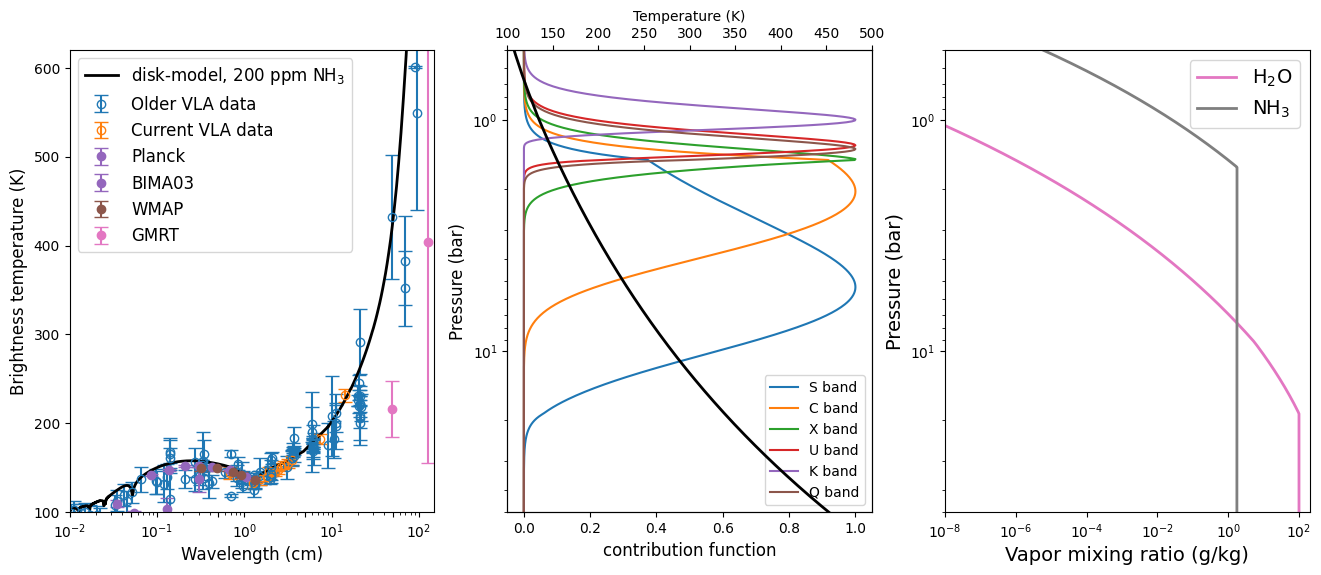
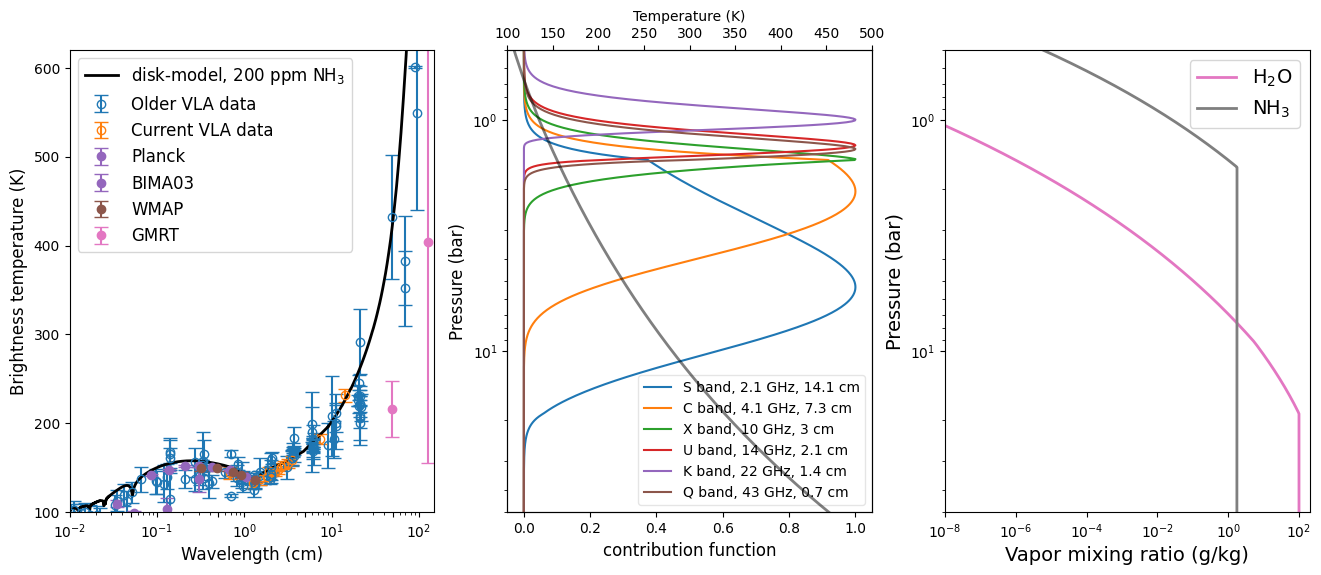
revise figure 2

Changed region(s): [[0.4966, 0.5913, 0.6518, 0.887]]

diff --git a/contribution_function.py b/contribution_function.py
@@ -32,13 +32,13 @@ def plot_contribution_function(ax, case, ang = None):
   pres, wfunc5 = contribution_function(case, 'b5', ang)
   pres, wfunc6 = contribution_function(case, 'b6', ang)
 
-  ax.plot(wfunc1, pres, label = 'S band')
-  ax.plot(wfunc2, pres, label = 'C band')
-  ax.plot(wfunc3, pres, label = 'X band')
-  ax.plot(wfunc4, pres, label = 'U band')
-  ax.plot(wfunc5, pres, label = 'K band')
-  ax.plot(wfunc6, pres, label = 'Q band')
-  ax.legend()
+  ax.plot(wfunc1, pres, label = 'S band, 2.1 GHz, 14.1 cm')
+  ax.plot(wfunc2, pres, label = 'C band, 4.1 GHz, 7.3 cm')
+  ax.plot(wfunc3, pres, label = 'X band, 10 GHz, 3 cm')
+  ax.plot(wfunc4, pres, label = 'U band, 14 GHz, 2.1 cm')
+  ax.plot(wfunc5, pres, label = 'K band, 22 GHz, 1.4 cm')
+  ax.plot(wfunc6, pres, label = 'Q band, 43 GHz, 0.7 cm')
+  ax.legend(fancybox=True, framealpha=0.5)
 
   ax.set_ylim([50., 0.5])
   ax.set_yscale('log')

diff --git a/profiles.py b/profiles.py
@@ -11,5 +11,5 @@ def plot_vapor_profile(ax, ncdata, name, color = 'C0'):
 def plot_temp_profile(ax, ncdata, color = 'k'):
   temp = ncdata['temp'][0,:,0,0]
   pres = ncdata['press'][0,:,0,0]/1.E5  # pa -> bar
-  ax.plot(temp, pres, linewidth = 2, color = color)
+  ax.plot(temp, pres, linewidth = 2, color = color, alpha = 0.5)
   ax.set_yscale('log')
